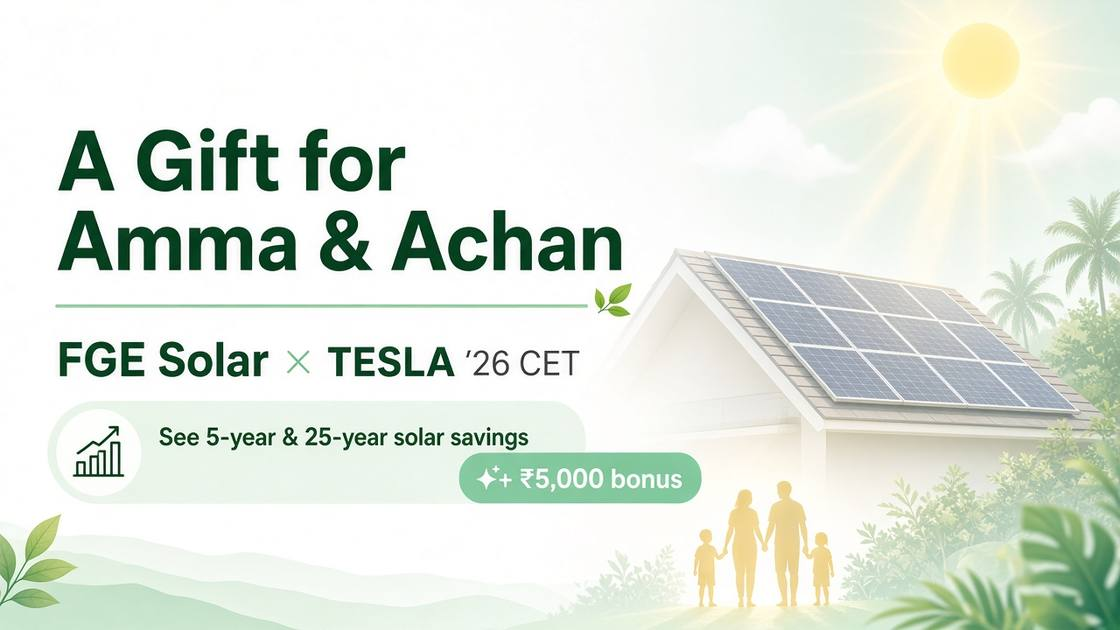
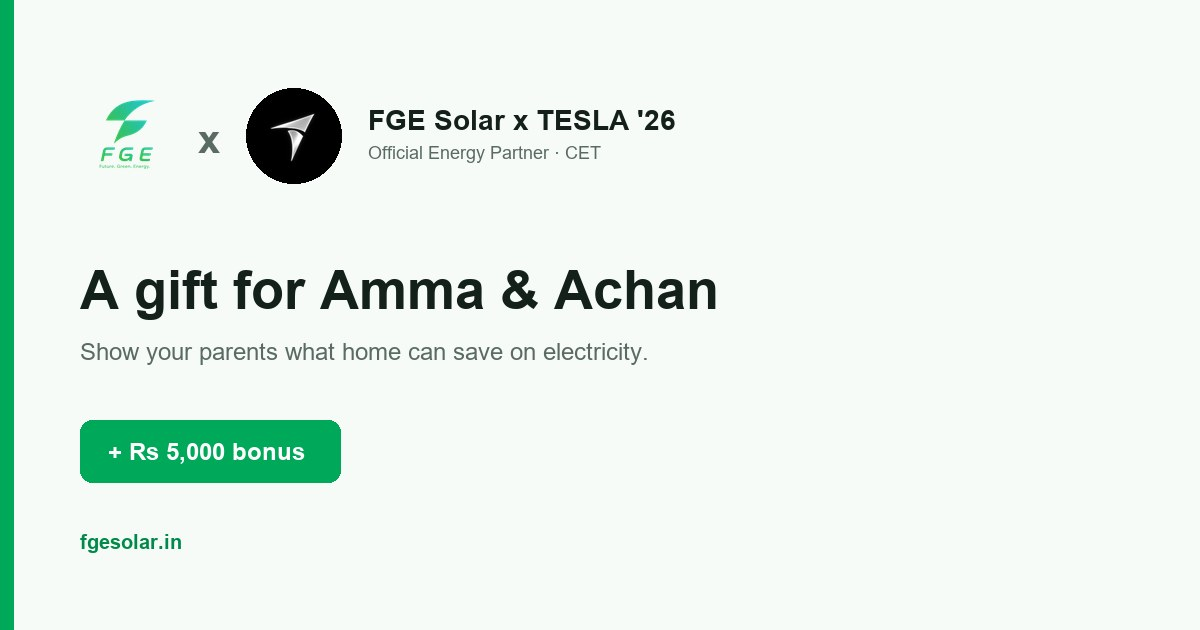
Add branded minimal OG/hero and rebuild TESLA26 savings sell screen.
Composited logo art, bill-before/after and money stack, scroll cue with CTA mid-page so the results feel scrollable and direct.

diff --git a/tesla26.html b/tesla26.html
@@ -21,7 +21,7 @@
   <meta name="twitter:image" content="https://fgesolar.in/assets/images/og/tesla26-og.webp">
   <meta name="theme-color" content="#F7FBF8">
   <link rel="icon" type="image/png" href="/assets/images/logo/logo.png">
-  <link rel="preload" as="image" href="/assets/images/campaigns/tesla26/fge-logo.png" fetchpriority="high">
+  <link rel="preload" as="image" href="/assets/images/campaigns/tesla26/gift-hero.webp" type="image/webp" fetchpriority="high">
 
   <script async src="https://www.googletagmanager.com/gtag/js?id=G-0R6VD39C55"></script>
   <script>
@@ -258,44 +258,99 @@
       border: 1px solid var(--line); background: var(--bg2); color: var(--muted); font-size: 14px; font-weight: 800;
     }
 
-    /* Results — savings psychology */
-    .gift-badge {
-      display: inline-flex; align-items: center; gap: 6px;
-      margin-bottom: 10px; padding: 6px 10px; border-radius: 999px;
-      background: rgba(27,58,75,0.08); color: var(--navy);
-      font-size: 11px; font-weight: 800; letter-spacing: 0.04em; text-transform: uppercase;
+    .hero-poster {
+      width: 100%;
+      border-radius: 18px;
+      border: 1px solid var(--line);
+      box-shadow: 0 12px 28px rgba(20,32,26,0.08);
+      background: #fff;
     }
-    .savings-hero {
-      margin: 0 0 14px; padding: 18px 16px; border-radius: 18px;
-      background: linear-gradient(160deg, #E8F8EF 0%, #FFFFFF 55%, #F3F8F5 100%);
-      border: 1px solid rgba(0,168,90,0.22);
-      box-shadow: 0 10px 28px rgba(0,168,90,0.08);
+
+    /* Results — direct sell */
+    .sell-bill {
+      display: grid; grid-template-columns: 1fr auto 1fr; gap: 8px; align-items: stretch;
+      margin: 0 0 14px;
     }
-    .savings-hero .tag {
-      margin: 0 0 6px; font-size: 11px; font-weight: 800; letter-spacing: 0.1em;
-      text-transform: uppercase; color: var(--solar-deep);
+    .sell-bill .box {
+      padding: 12px; border-radius: 12px; border: 1px solid var(--line); background: var(--card); text-align: center;
     }
-    .savings-hero .big {
-      margin: 0; font-size: clamp(2rem, 9vw, 2.6rem); font-weight: 900;
-      letter-spacing: -0.04em; line-height: 1; color: var(--ink);
+    .sell-bill .box span {
+      display: block; font-size: 10px; font-weight: 800; letter-spacing: 0.08em;
+      text-transform: uppercase; color: var(--muted); margin-bottom: 4px;
     }
-    .savings-hero .why {
-      margin: 8px 0 0; font-size: 14px; line-height: 1.4; color: var(--muted); font-weight: 600;
+    .sell-bill .box strong { font-size: 1.05rem; font-weight: 900; letter-spacing: -0.02em; }
+    .sell-bill .box.good { border-color: rgba(0,168,90,0.35); background: var(--solar-soft); }
+    .sell-bill .box.good strong { color: var(--solar-deep); }
+    .sell-bill .arrow {
+      align-self: center; color: var(--muted); font-size: 18px; font-weight: 300;
     }
-    .savings-hero .why em { font-style: normal; color: var(--navy); font-weight: 800; }
-    .savings-grid { display: grid; grid-template-columns: 1fr 1fr; gap: 10px; margin-bottom: 12px; }
-    .stat {
-      padding: 14px; border-radius: 14px; border: 1px solid var(--line); background: var(--card);
+
+    .money-stack {
+      margin: 0 0 14px; border-radius: 16px; border: 1px solid rgba(0,168,90,0.25);
+      background: #fff; overflow: hidden;
     }
-    .stat .lbl { display: block; margin-bottom: 6px; font-size: 10px; font-weight: 800; letter-spacing: 0.1em; text-transform: uppercase; color: var(--muted); }
-    .stat .val { font-size: 1.2rem; font-weight: 900; letter-spacing: -0.03em; line-height: 1.15; }
-    .stat.hi { border-color: rgba(0,168,90,0.35); background: var(--solar-soft); }
-    .stat.hi .val { color: var(--solar-deep); }
-    .plan-line { margin: 0 0 12px; font-size: 14px; color: var(--muted); line-height: 1.45; }
-    .plan-line strong { color: var(--ink); }
+    .money-row {
+      display: flex; align-items: baseline; justify-content: space-between; gap: 12px;
+      padding: 14px 16px; border-bottom: 1px solid var(--line);
+    }
+    .money-row:last-child { border-bottom: 0; }
+    .money-row .when { font-size: 13px; font-weight: 700; color: var(--muted); }
+    .money-row .amt { font-size: 1.15rem; font-weight: 900; letter-spacing: -0.03em; color: var(--ink); text-align: right; }
+    .money-row.is-main {
+      padding: 18px 16px;
+      background: linear-gradient(160deg, #E8F8EF, #FFFFFF);
+    }
+    .money-row.is-main .when { color: var(--solar-deep); font-size: 12px; font-weight: 800; letter-spacing: 0.06em; text-transform: uppercase; }
+    .money-row.is-main .amt { font-size: clamp(1.7rem, 7vw, 2.15rem); color: var(--ink); }
+    .money-row.is-main .hint { display: block; margin-top: 4px; font-size: 12px; font-weight: 600; color: var(--muted); text-align: right; }
+
+    .spec-list {
+      margin: 0 0 14px; padding: 0; list-style: none;
+      border: 1px solid var(--line); border-radius: 14px; background: var(--card); overflow: hidden;
+    }
+    .spec-list li {
+      display: flex; justify-content: space-between; gap: 12px;
+      padding: 12px 14px; border-bottom: 1px solid var(--line);
+      font-size: 13px;
+    }
+    .spec-list li:last-child { border-bottom: 0; }
+    .spec-list .k { color: var(--muted); font-weight: 600; }
+    .spec-list .v { color: var(--ink); font-weight: 800; text-align: right; }
+
+    .results-cta {
+      margin: 4px 0 18px;
+      padding-bottom: 4px;
+    }
+    .results-cta .btn-3d { animation: none; }
+    .scroll-cue {
+      display: flex; flex-direction: column; align-items: center; gap: 4px;
+      margin: 0 0 18px; color: var(--muted); font-size: 12px; font-weight: 700;
+      transition: opacity 0.25s ease;
+    }
+    .scroll-cue i {
+      display: block; width: 18px; height: 18px;
+      border-right: 2px solid var(--solar); border-bottom: 2px solid var(--solar);
+      transform: rotate(45deg); margin-top: 2px;
+      animation: cueBob 1.2s ease-in-out infinite;
+    }
+    @keyframes cueBob {
+      0%, 100% { transform: rotate(45deg) translateY(0); opacity: 0.45; }
+      50% { transform: rotate(45deg) translateY(4px); opacity: 1; }
+    }
+    @media (prefers-reduced-motion: reduce) { .scroll-cue i { animation: none; } }
+
+    .detail-block {
+      margin: 0 0 14px; padding: 14px; border-radius: 14px;
+      border: 1px solid var(--line); background: var(--bg2);
+    }
+    .detail-block h3 {
+      margin: 0 0 8px; font-size: 12px; font-weight: 800;
+      letter-spacing: 0.08em; text-transform: uppercase; color: var(--muted);
+    }
+    .detail-block p { margin: 0; font-size: 13px; line-height: 1.45; color: var(--ink); }
     .addon-strip {
       display: flex; align-items: flex-start; gap: 10px;
-      padding: 12px 14px; border-radius: 14px;
+      padding: 12px 14px; border-radius: 14px; margin-bottom: 14px;
       border: 1px dashed rgba(0,168,90,0.4); background: rgba(0,168,90,0.06);
     }
     .addon-strip .plus {
@@ -306,6 +361,10 @@
     .addon-strip p { margin: 0; font-size: 13px; line-height: 1.4; }
     .addon-strip strong { color: var(--ink); }
     .addon-strip span { color: var(--muted); font-size: 12px; }
+
+    body.is-results .carousel-shell {
+      padding-bottom: calc(28px + var(--safe-b));
+    }
 
     /* Brochure voucher */
     .brochure {
@@ -611,29 +670,26 @@
       </div>
 
       <div id="welcome-fresh">
-        <div class="brand-hero" role="img" aria-label="FGE Solar times TESLA 26 — a gift for Amma and Achan">
-          <div class="brand-hero-lockup">
-            <div class="bh">
-              <img src="/assets/images/campaigns/tesla26/fge-logo.png" alt="FGE Solar" width="44" height="44">
-              <span>FGE Solar</span>
-            </div>
-            <span class="x" aria-hidden="true">×</span>
-            <div class="bh">
-              <img src="/assets/images/campaigns/tesla26/tesla26-delta-t.png" alt="TESLA '26" width="44" height="44">
-              <span>TESLA '26</span>
-            </div>
-          </div>
-          <p class="brand-hero-event">Official Energy Partner · CET</p>
-          <h2>A gift for Amma &amp; Achan</h2>
-          <p class="bh-copy">Show them how much your home can save on the electricity bill.</p>
-          <p class="bh-bonus">Bonus: ₹5,000 off installation</p>
-        </div>
+        <figure>
+          <picture>
+            <source srcset="/assets/images/campaigns/tesla26/gift-hero.webp" type="image/webp">
+            <img
+              class="hero-poster"
+              src="/assets/images/campaigns/tesla26/gift-hero.jpg"
+              alt="FGE Solar × TESLA '26 — A gift for Amma and Achan"
+              width="720"
+              height="960"
+              fetchpriority="high"
+              decoding="async"
+            >
+          </picture>
+        </figure>
 
         <p class="welcome-kicker">For students at TESLA '26</p>
         <h2 class="welcome-title">Make a solar gift card for your parents</h2>
         <p class="welcome-copy">
-          Quick questions about the bill and appliances at home. You’ll get a clear savings number for Amma &amp; Achan,
-          on a card you can send them on WhatsApp.
+          Answer a few questions about home. We’ll show clear rupee savings you can WhatsApp to Amma &amp; Achan.
+          ₹5,000 off is a bonus on top.
         </p>
 
         <button type="button" class="btn btn-solar" style="margin-top:20px" data-next="1">Start →</button>
@@ -805,42 +861,82 @@
 
       <section id="step-5" class="step">
         <div class="step-top">
-          <p class="lbl">Savings</p>
+          <p class="lbl">Your numbers</p>
           <button type="button" class="back" data-back="4">← Back</button>
         </div>
-        <div class="gift-badge">For your parents</div>
-        <h2>What your home could keep</h2>
-        <p class="lead" id="rec-units">About 600 units of solar power / month</p>
+        <h2>Money your home can keep</h2>
+        <p class="lead">Based on a <strong id="rec-system">5 kW</strong> system for this house.</p>
 
-        <div class="savings-hero">
-          <p class="tag">In 5 years</p>
-          <p class="big" id="stat-5y">₹2.7 L</p>
-          <p class="why">Same stretch as a college degree — money that can stay at home instead of going to KSEB.</p>
+        <div class="sell-bill" aria-label="Bill comparison">
+          <div class="box">
+            <span>KSEB now</span>
+            <strong id="stat-bill">₹5,000/mo</strong>
+          </div>
+          <div class="arrow" aria-hidden="true">→</div>
+          <div class="box good">
+            <span>With solar</span>
+            <strong id="stat-bill-after">₹500/mo</strong>
+          </div>
         </div>
 
-        <div class="savings-grid">
-          <div class="stat hi"><span class="lbl">Over 25 years</span><span id="stat-25y" class="val">₹13.5 L</span></div>
-          <div class="stat"><span class="lbl">Each year</span><span id="stat-annual" class="val">₹54,000</span><span id="stat-offset" style="display:block;margin-top:4px;font-size:11px;color:var(--muted)">~90% of bill</span></div>
-          <div class="stat"><span class="lbl">CO₂ cut</span><span id="stat-co2" class="val">5.9 t/yr</span></div>
-          <div class="stat"><span class="lbl">Roof needed</span><span id="stat-roof" class="val">~500 ft²</span></div>
+        <div class="money-stack">
+          <div class="money-row">
+            <span class="when">Every year</span>
+            <span class="amt" id="stat-annual">₹54,000</span>
+          </div>
+          <div class="money-row is-main">
+            <span class="when">In 5 years</span>
+            <span>
+              <span class="amt" id="stat-5y">₹2.7 L</span>
+              <span class="hint">About one college course of bills</span>
+            </span>
+          </div>
+          <div class="money-row">
+            <span class="when">In 25 years</span>
+            <span class="amt" id="stat-25y">₹13.5 L</span>
+          </div>
         </div>
 
-        <p class="plan-line">Suggested for this home: <strong id="rec-system">5 kW On-Grid Solar System</strong></p>
-        <p class="plan-line" id="rec-note" style="font-size:12px"></p>
-        <div id="load-summary" class="plan-line" style="font-size:12px;padding:10px 12px;border-radius:12px;background:var(--bg2);border:1px solid var(--line)"></div>
-        <p id="stat-trees" class="plan-line" style="margin-top:10px">Equal to about 295 trees planted each year</p>
+        <ul class="spec-list">
+          <li><span class="k">Solar units / month</span><span class="v" id="rec-units">~600</span></li>
+          <li><span class="k">Bill cut</span><span class="v" id="stat-offset">~90%</span></li>
+          <li><span class="k">Roof needed</span><span class="v" id="stat-roof">~500 ft²</span></li>
+          <li><span class="k">CO₂ cut / year</span><span class="v" id="stat-co2">5.9 t</span></li>
+        </ul>
 
-        <div class="addon-strip" style="margin-top:14px">
+        <div class="results-cta">
+          <button type="button" class="btn-3d" data-next="6">Make gift card →</button>
+          <button type="button" class="btn-link" data-back="1">Change answers</button>
+        </div>
+
+        <div class="scroll-cue" id="results-scroll-cue" aria-hidden="true">
+          <span>More details below</span>
+          <i></i>
+        </div>
+
+        <div class="detail-block">
+          <h3>Why this size</h3>
+          <p id="rec-note">Sized from your bill and appliances.</p>
+        </div>
+        <div class="detail-block">
+          <h3>Your home load</h3>
+          <p id="load-summary">—</p>
+        </div>
+        <div class="detail-block">
+          <h3>Climate impact</h3>
+          <p id="stat-trees">Equal to about 295 trees planted each year.</p>
+        </div>
+
+        <div class="addon-strip">
           <div class="plus">+₹5k</div>
           <p>
-            <strong>Extra for TESLA '26:</strong> ₹5,000 off if they book with your gift code.<br>
-            <span>The real gift is the savings — this is just a bonus · 10 days</span>
+            <strong>TESLA '26 bonus</strong><br>
+            <span>₹5,000 off installation with your gift code · 10 days</span>
           </p>
         </div>
 
-        <div class="sticky-cta-wrap">
-          <button type="button" class="btn-3d" data-next="6">Make their gift card →</button>
-          <button type="button" class="btn-link" data-back="1">Change answers</button>
+        <div class="results-cta">
+          <button type="button" class="btn btn-solar" data-next="6">Make gift card →</button>
         </div>
       </section>
 
@@ -926,15 +1022,15 @@
           </div>
           <div class="brochure-body">
             <div class="brochure-save">
-              <p class="tag">In 5 years</p>
+              <p class="tag">In 5 years your home can keep</p>
               <p class="amt" id="v-5y">₹2.7 L</p>
-              <p class="sub">Estimated bill money your home can keep — about as long as one degree.</p>
+              <p class="sub">Estimated KSEB bill money that stays in the family.</p>
             </div>
             <div class="brochure-row">
-              <div class="brochure-cell"><span>Over 25 years</span><strong id="v-25y">₹13.5 L</strong></div>
-              <div class="brochure-cell"><span>Each year</span><strong id="v-annual">₹54,000</strong></div>
+              <div class="brochure-cell"><span>In 25 years</span><strong id="v-25y">₹13.5 L</strong></div>
+              <div class="brochure-cell"><span>Every year</span><strong id="v-annual">₹54,000</strong></div>
               <div class="brochure-cell"><span>District</span><strong id="v-district">—</strong></div>
-              <div class="brochure-cell"><span>Suggested system</span><strong id="v-system">—</strong></div>
+              <div class="brochure-cell"><span>System</span><strong id="v-system">—</strong></div>
             </div>
             <div class="brochure-bonus">
               <p>TESLA '26 bonus<br><span style="font-weight:600;color:var(--muted);font-size:12px">Use this code when booking</span></p>
@@ -1345,19 +1441,24 @@
       billSlider.style.background =
         'linear-gradient(90deg,#008A4A 0%,#00A85A ' + pct + '%,#D8E5DC ' + pct + '%)';
 
+      var billAfter = Math.max(0, Math.round(state.bill * (1 - state.offsetPct / 100)));
       document.getElementById('rec-system').textContent = state.label;
-      document.getElementById('rec-units').textContent =
-        'About ' + state.unitsMonth.toLocaleString('en-IN') + ' units of solar power / month';
-      document.getElementById('rec-note').textContent = state.loadNote;
+      document.getElementById('stat-bill').textContent = formatINR(state.bill) + '/mo';
+      document.getElementById('stat-bill-after').textContent = formatINR(billAfter) + '/mo';
+      document.getElementById('stat-annual').textContent = formatINR(state.annualSavings);
       document.getElementById('stat-5y').textContent = formatLakhs(state.savings5);
       document.getElementById('stat-25y').textContent = formatLakhs(state.savings25);
-      document.getElementById('stat-annual').textContent = formatINR(state.annualSavings);
-      document.getElementById('stat-offset').textContent = '~' + state.offsetPct + '% of bill';
-      document.getElementById('stat-co2').textContent = state.co2Tons.toFixed(1) + ' t/yr';
-      document.getElementById('stat-roof').textContent = '~' + state.roofSqft.toLocaleString('en-IN') + ' ft²';
-      document.getElementById('stat-trees').textContent =
-        'Equal to about ' + state.trees.toLocaleString('en-IN') + ' trees planted each year';
+      document.getElementById('rec-units').textContent =
+        '~' + state.unitsMonth.toLocaleString('en-IN') + ' units';
+      document.getElementById('stat-offset').textContent = '~' + state.offsetPct + '%';
+      document.getElementById('stat-roof').textContent =
+        '~' + state.roofSqft.toLocaleString('en-IN') + ' ft²';
+      document.getElementById('stat-co2').textContent = state.co2Tons.toFixed(1) + ' t';
+      document.getElementById('rec-note').textContent =
+        state.loadNote || ('Sized from your ₹' + state.bill.toLocaleString('en-IN') + '/mo bill and appliance list.');
       document.getElementById('load-summary').textContent = state.loadSummary;
+      document.getElementById('stat-trees').textContent =
+        'About ' + state.trees.toLocaleString('en-IN') + ' trees worth of CO₂ avoided each year.';
       document.getElementById('summary-line').textContent =
         state.label + ' · ' + formatLakhs(state.savings5) + ' in 5 years';
     }
@@ -1388,6 +1489,7 @@
       state.step = n;
       document.body.classList.toggle('is-audit', n > 0);
       document.body.classList.toggle('is-voucher', n === 7);
+      document.body.classList.toggle('is-results', n === 5);
       document.querySelectorAll('.step').forEach(function (el) { el.classList.remove('is-on'); });
       var el = document.getElementById('step-' + n);
       if (el) {
@@ -1401,6 +1503,8 @@
       window.scrollTo(0, 0);
       var shell = document.querySelector('.carousel-shell');
       if (shell && n > 0) shell.scrollTop = 0;
+      var cue = document.getElementById('results-scroll-cue');
+      if (cue) cue.style.display = n === 5 ? 'flex' : 'none';
     }
 
     function showCongrats() {
@@ -1771,6 +1875,15 @@
       goStep(7);
       showCongrats();
     });
+
+    var shellEl = document.querySelector('.carousel-shell');
+    if (shellEl) {
+      shellEl.addEventListener('scroll', function () {
+        if (state.step !== 5) return;
+        var cue = document.getElementById('results-scroll-cue');
+        if (cue && shellEl.scrollTop > 24) cue.style.opacity = '0';
+      }, { passive: true });
+    }
 
     updateResults();
     startHomeTicker();
